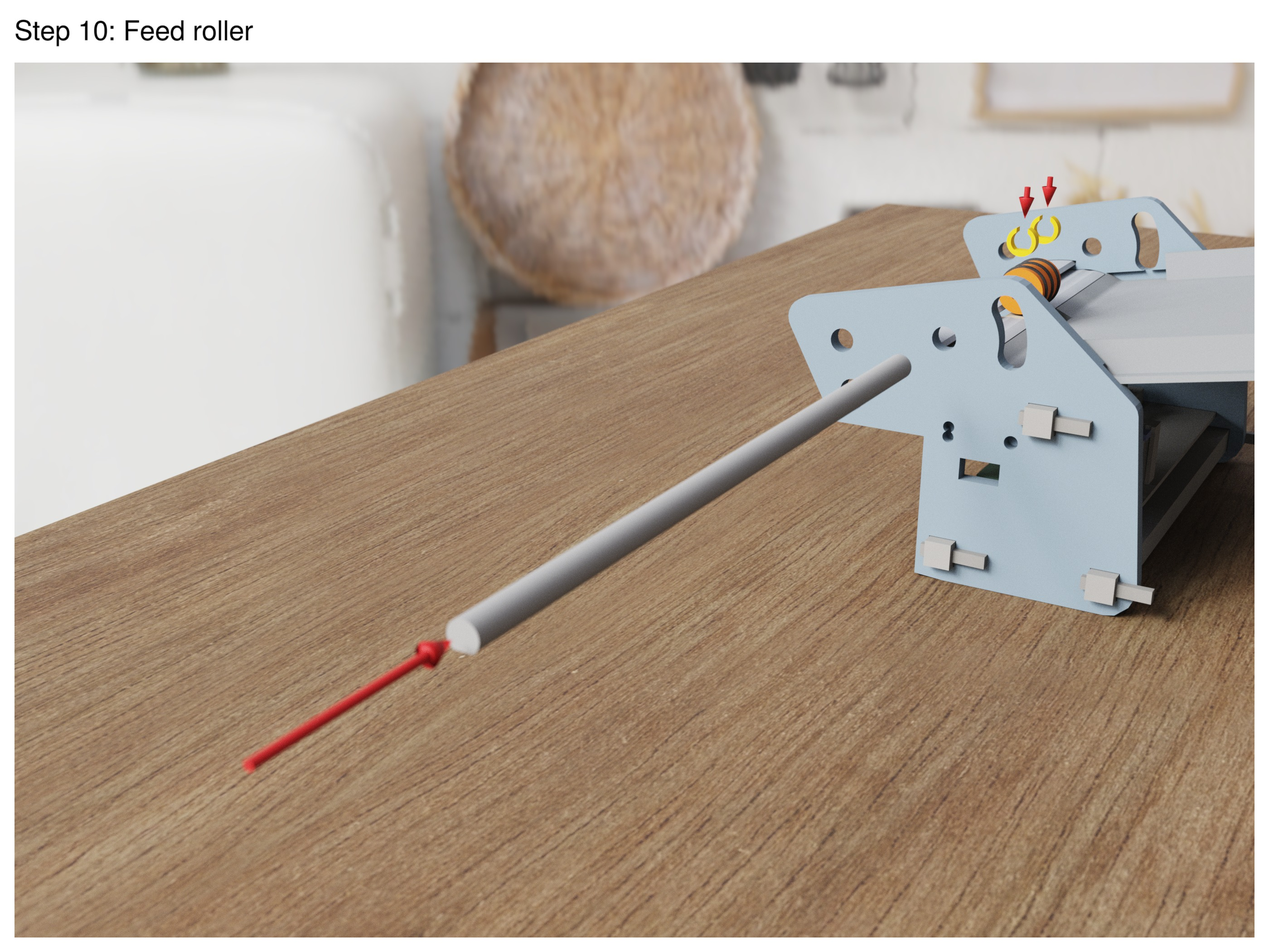
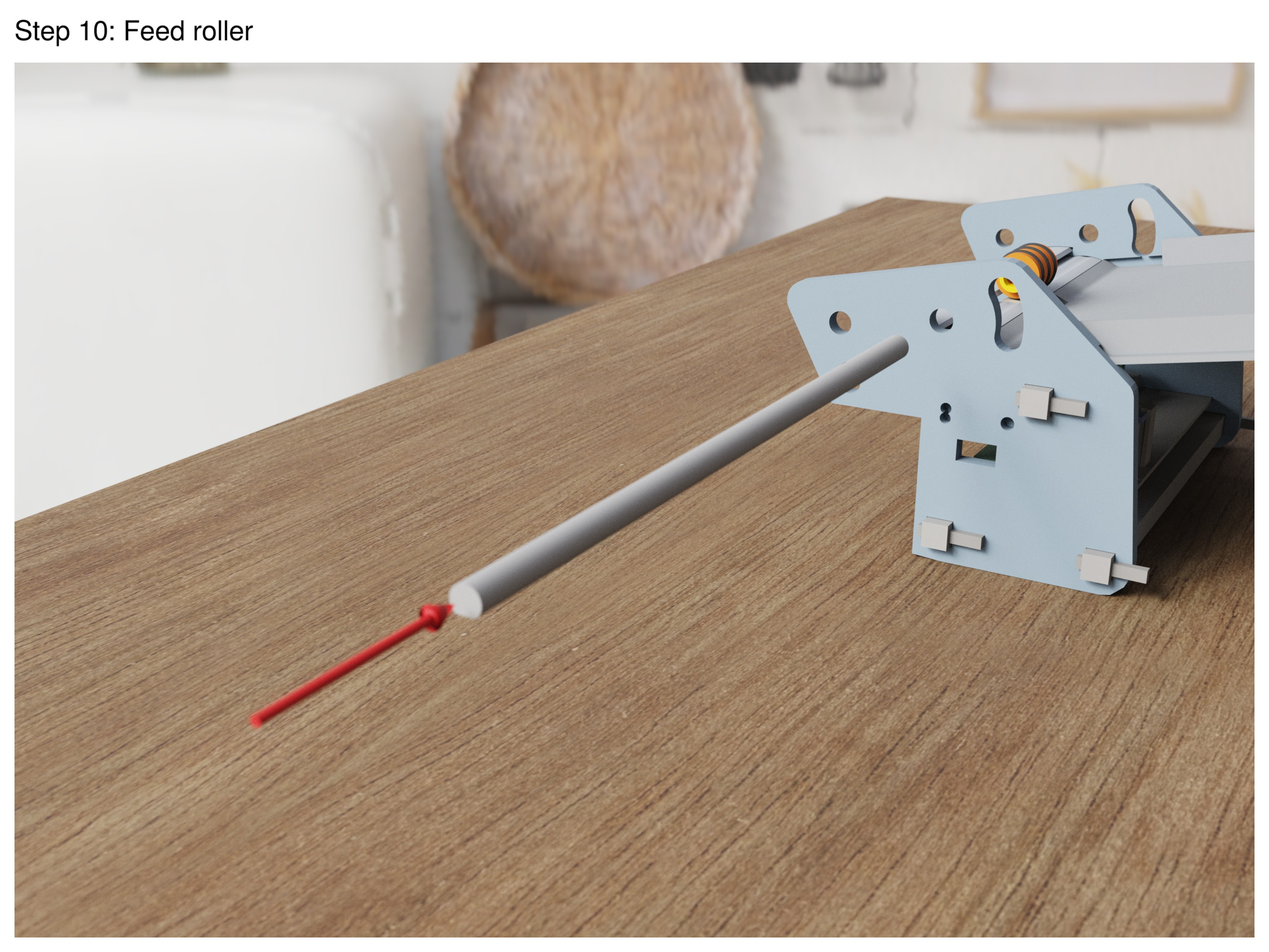
Feeder: simulate the assembly order; pad spring goes into its bar on the table, collars are threaded on

diff --git a/hardware/feeder/ASSEMBLY.md b/hardware/feeder/ASSEMBLY.md
@@ -18,19 +18,19 @@ Lay each board into its pocket on the carrier, parts up, onto the shelves under 
 
 ## 3. Inserts into the right side plate
 
-Lay the right side plate on the table, outer face down. Set the upper guide, both halves of the lower guide and the electronics carrier with its boards into its pockets.
+Lay the right side plate on the table, outer face down. Set the upper guide, the right half of the lower guide and the electronics carrier with its boards into its pockets.
 
 ![Step 3](assembly/step_03.jpg)
 
-## 4. Tie bars
+## 4. Separation pad
 
-Push the pad bar and the two tie bars into the square holes of the right side plate.
+Glue a 2 mm cork strip, cut lengthwise from a wine cork, onto the curved face of the pad spring's head. Slide the spring's root block into the open side of the pad bar's pocket, until the hole in the block lines up with the bar's hole, and press the pad pin through bar and block.
 
 ![Step 4](assembly/step_04.jpg)
 
-## 5. Separation pad
+## 5. Bars and the lower guide's left half
 
-Glue a 2 mm cork strip, cut lengthwise from a wine cork, onto the curved face of the pad spring's head. Slide the spring's root block from the front into the pocket of the pad bar, the head toward the front, and press the pad pin down through bar and block.
+Push the pad bar with its spring, the head toward the front, and the two tie bars into the square holes of the right side plate. Then stand the left half of the lower guide end to end on the right half, its cut-out around the pad's head.
 
 ![Step 5](assembly/step_05.jpg)
 
@@ -60,13 +60,13 @@ Lift the tray's back end a little and set the stand under it, its two pegs into 
 
 ## 10. Feed roller
 
-Hold the feed hub under the upper guide's front end, lift the pad with a finger and push the feed shaft in from the left through both plates and the hub. Snap a collar onto each side of the hub.
+Hold the feed hub under the upper guide's front end with a collar beside it on each side, lift the pad with a finger and push the feed shaft in from the left through both plates, threading the collar, the hub and the other collar onto it. Turn each of them until its flat inside lines up with the shaft's flat.
 
 ![Step 10](assembly/step_10.jpg)
 
 ## 11. Pick arm and roller
 
-Put an arm onto each end of the feed shaft, outside the plates, the left one with the boss for the idler. Hold the pick hub over the tray and push the pick shaft in from the left: through the left arm, the arc slot in the left plate, the hub, the right plate's slot and the right arm. Snap its collars on beside the hub and outside the right arm, and one onto the feed shaft outside the right arm.
+Put an arm onto each end of the feed shaft, outside the plates, the left one with the boss for the idler. Hold the pick hub over the tray with a collar beside it on each side and push the pick shaft in from the left: through the left arm, the arc slot in the left plate, a collar, the hub, the other collar, the right plate's slot and the right arm. Push a collar onto the pick shaft's right end and one onto the feed shaft's right end, outside the right arm.
 
 ![Step 11](assembly/step_11.jpg)
 
@@ -84,7 +84,7 @@ Press the idler shaft into the D-hole of the left arm's top, slide the idler ont
 
 ## 14. Exit rollers
 
-Push the driven exit shaft in from the right through both exit hubs; its right end stays flush with the plate. Push the idler shaft in from the left through its slots and both idler rollers. Snap on the collars, then press the two idler springs into the outer faces of the plates so they push the idler shaft up.
+Push the driven exit shaft in from the right through both exit hubs, threading a collar onto it on each side of each hub; its right end stays flush with the plate. Push a collar onto its left end, outside the left plate. Push the idler shaft in from the left through its slots, threading a collar just inside each plate and one on each side of each idler roller. Turn every collar and roller until its flat inside lines up with the shaft's flat. Then press the two idler springs into the outer faces of the plates so they push the idler shaft up.
 
 ![Step 14](assembly/step_14.jpg)
 

diff --git a/hardware/feeder/DESIGN.md b/hardware/feeder/DESIGN.md
@@ -197,8 +197,15 @@ at most 1.3° turned (the camera straightens it), inside a box 220 mm wide.
 The CAD checks build every part in place with OpenCASCADE: no two parts overlap except the
 intended press fits (O-rings in their grooves, pawl tips on the ratchets, lug pins, the pad pin,
 the clamp frames' pegs); the pick arm with everything it carries swings freely from an empty
-tray to a full one and 15 mm higher for loading; the lower exit roller can drop its full travel;
-every shaft slides in through the standing frame, the tray in along its pockets. The arm's
+tray to a full one and 15 mm higher for loading; the lower exit roller can drop its full travel.
+The feeder goes together in the order of [ASSEMBLY.md](ASSEMBLY.md): every part, moved in along
+its way at most 1.5 mm at a time, touches nothing already in place more than at its own place
+(where press fits overlap), except the O-rings, which stretch by 16 % over the hubs' lands
+(`sequence_check`). This check changed the order: the pad spring goes into the pad bar on the
+table, before the bar goes into the frame, because in the frame the lower guide's bed is in the
+head's way; and the collars beside the rollers are threaded onto their shafts as the shafts go
+in, because snapped on from the side their 5.4 mm slot would have to open by 4.6 mm, a strain
+of 2.7 %, more than PETG takes. The arm's
 parts weigh 86 g and press the pick roller on with 0.70 to 0.74 N, from a full to an empty
 tray. Each board and the room it needs (the parts on it, the motor plug, the jumper wires and
 their bends, the ESP32's USB-C plug and cable) is clear of every printed part, for the smallest
